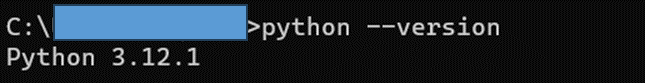
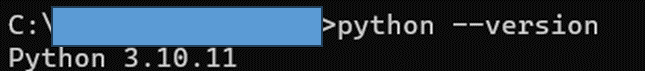
update240115 ・Document修正

Changed region(s): [[0.0, 0.0282, 0.9302, 1.0], [0.8372, 0.1972, 0.8682, 0.2535]]

diff --git a/document/01_Python環境構築.md b/document/01_Python環境構築.md
@@ -1,11 +1,29 @@
 # 【Python環境構築】
 
-## 1.ダウンロード
+## 1.Python3.10.11のダウンロード
+- 下記のURLにアクセスする
+```
+https://www.python.org/downloads/windows/
+```
+
+- ページ内の「Python 3.10.11 - April 5, 2023」の「Download Windows installer (64-bit)」押下するとダウンロードされる。
+![Alt text](./img/img15.png)
+
+- または、下記のURLをクリックするとダウンロードされる。
+```
+https://www.python.org/ftp/python/3.10.11/python-3.10.11-amd64.exe
+```
+
+### 備考
+```
+今回紹介するアプリにて、最画像の機械学習で使用するultralyticsが最新版だとインストールされない事がある為、新版ではなくPython3.10.11をインストールする事にした。
+```
+
+### 最新版のダウンロードの場合
 - 下記のURLにアクセスする
 ```
 https://www.python.org/
 ```
-
 - Download
   - Downlod for windowsの下の「Python3.xx.x」 を押下
   - ファイルがダウンロードされ、ダウンロード先のディレクトリに保存される

diff --git a/document/02_Pythonライブラリ.md b/document/02_Pythonライブラリ.md
@@ -17,9 +17,11 @@ pip install django
 pip install numpy
 pip install pandas
 pip install scikit-learn
-pip install matplotlib
+pip install ultralytics
 pip install japanize-matplotlib 
 pip install jupyter
+
+「pip install matplotlib」 はultralyticsでインストールされる為不要
 ```
 
 ## インストール済みライブラリの一覧表示
